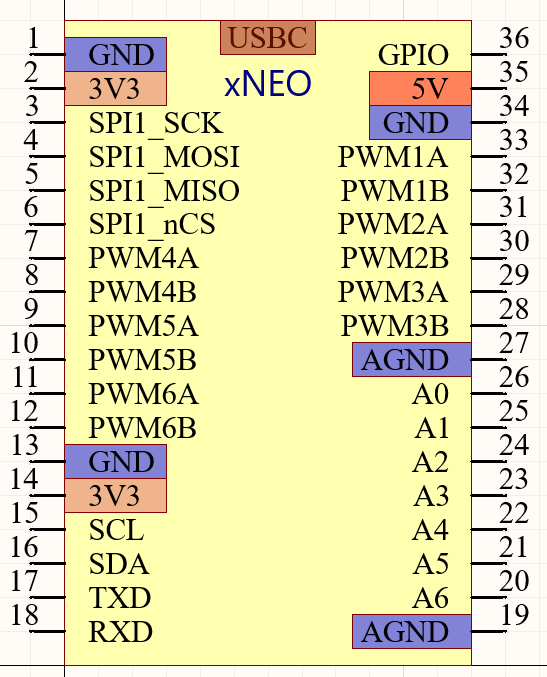
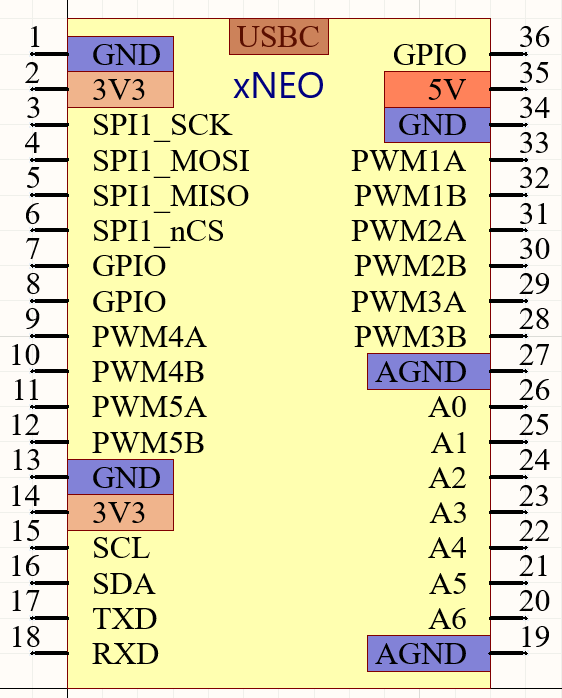
library: 改进xNEO-36，将两组PWM改为普通IO

Changed region(s): [[0.0, 0.0, 1.0, 1.0]]

diff --git a/README.md b/README.md
@@ -1,6 +1,6 @@
 # xNeo 规范
 
-[天在水](heguolin@mail.iee.ac.cn)@2022/05/19
+[天在水](heguolin@mail.iee.ac.cn)@2022/05/20
 
 ## 目标
 
